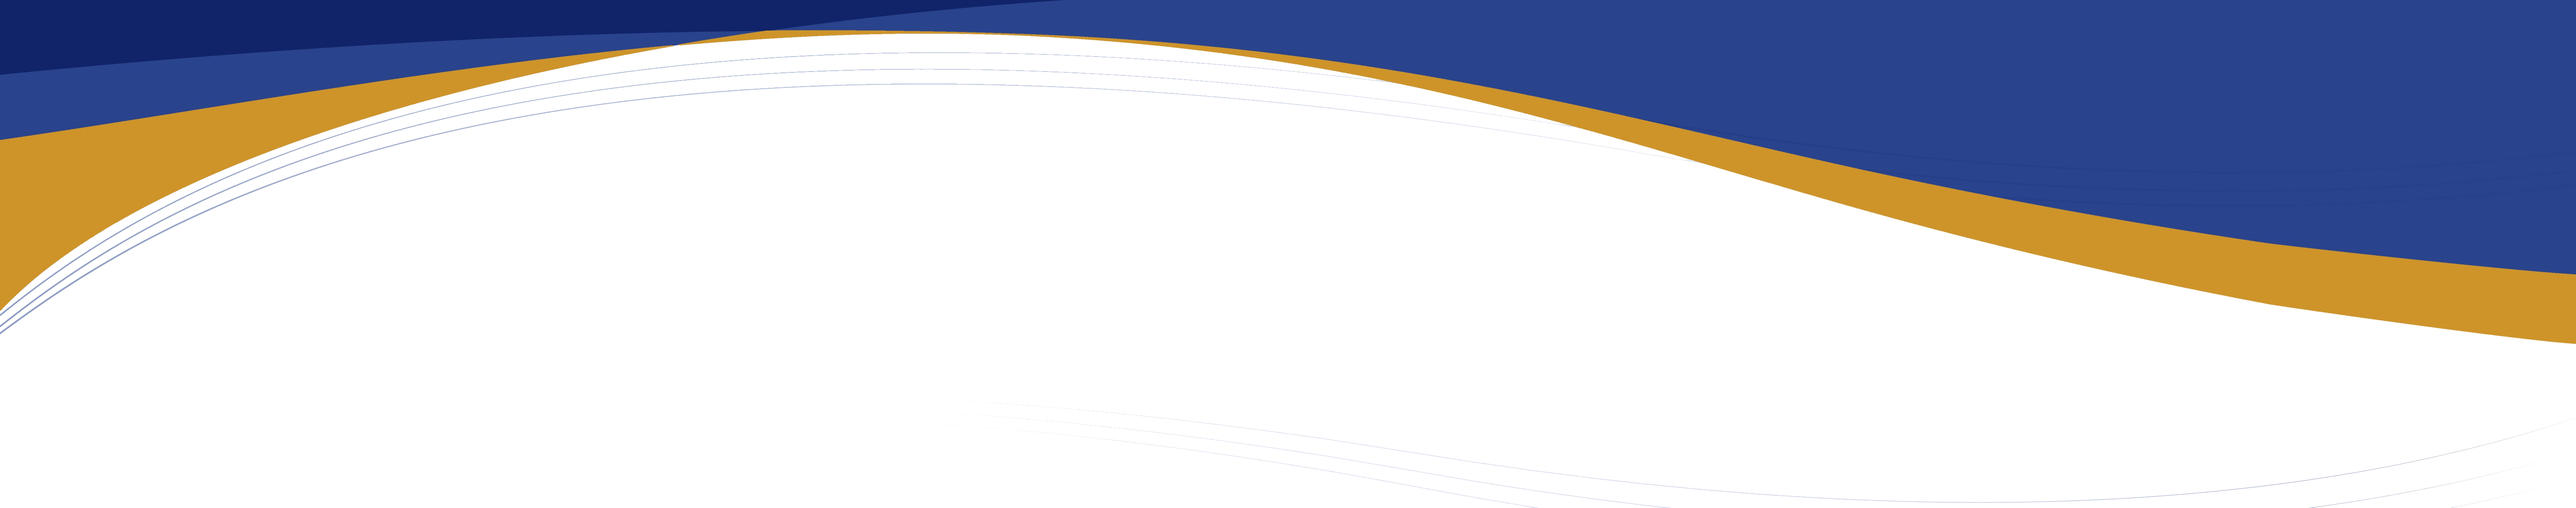
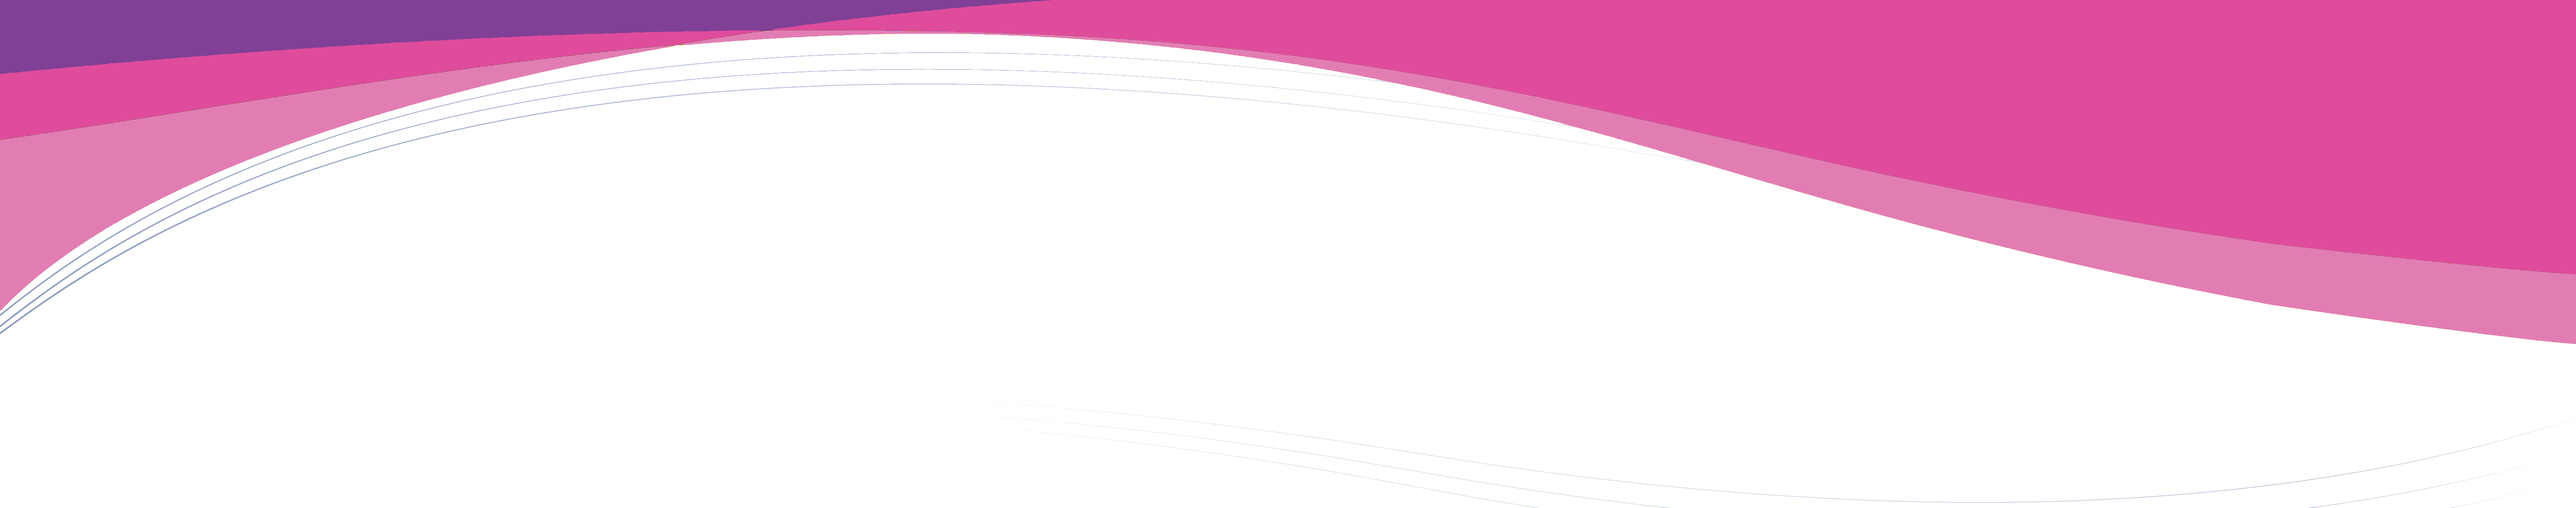
atualizacao outubro rosa

diff --git a/tailwind.config.js b/tailwind.config.js
@@ -23,33 +23,57 @@ module.exports = {
 
     daisyui: {
         styled: true,
-        themes: [ 
+        themes: [
             {
                 ultrimagem: {
-        
-                  //"primary": "#0a33a3",
 
-                  "primary": "#ff8597",
-        
-                  "secondary": "#cdccff",
-        
-                  //"accent": "#2849a3",
-                    
-                  "accent": "#f757d6",
+                    "primary": "#0a33a3",
 
-                  "neutral": "#252432",
-        
-                  "base-100": "#f2f2f2",
-        
-                  "info": "#1e4cd2",
-        
-                  "success": "#81dcb8",
-        
-                  "warning": "#f9b85d",
-        
-                  "error": "#c10015",
+                    //"primary": "#ff8597",
+
+                    "secondary": "#cdccff",
+
+                    "accent": "#2849a3",
+
+                    //"accent": "#f757d6",
+
+                    "neutral": "#252432",
+
+                    "base-100": "#f2f2f2",
+
+                    "info": "#1e4cd2",
+
+                    "success": "#81dcb8",
+
+                    "warning": "#f9b85d",
+
+                    "error": "#c10015",
                 },
-              }],
+                outubro_rosa: {
+
+                    //"primary": "#0a33a3",
+
+                    "primary": "#ff8597",
+
+                    "secondary": "#cdccff",
+
+                    //"accent": "#2849a3",
+
+                    "accent": "#f757d6",
+
+                    "neutral": "#252432",
+
+                    "base-100": "#fdf2f8",
+
+                    "info": "#1e4cd2",
+
+                    "success": "#81dcb8",
+
+                    "warning": "#f9b85d",
+
+                    "error": "#c10015",
+                },
+            }],
         base: true,
         utils: true,
         logs: true,

diff --git a/resources/views/inicio.blade.php b/resources/views/inicio.blade.php
@@ -1,13 +1,13 @@
 <x-rating-layout>
     <div class="min-h-screen hero" style="background-image: url(/image/logofundo.png);">
-        <div class="bg-white hero-overlay bg-opacity-95"></div>
+        <div class="bg-base-100 hero-overlay bg-opacity-95"></div>
         <div class="text-center hero-content text-neutral-content">
             <div class="max-w-xl">
 
                 <div class="grid max-w-xl grid-cols-1 sm:grid-cols-1 justify-items-center">
-                    <h1 class="py-5 text-5xl font-bold text-blue-700">Sua opinião é muito importante para nós!</h1>
+                    <h1 class="py-5 text-5xl font-bold text-primary">Sua opinião é muito importante para nós!</h1>
                     <a href="{{ url('welcome') }}" type="button"
-                        class="h-16 p-2 text-xl font-bold text-white bg-blue-800 border-2 border-none rounded-md hover:bg-blue-900 btn w-96">Iniciar
+                        class="h-16 p-2 text-xl font-bold text-white border-2 border-none rounded-md bg-primary hover:bg-blue-900 btn w-96">Iniciar
                         Pesquisa</a>
 
                 </div>

diff --git a/resources/views/livewire/forms/form-comentario.blade.php b/resources/views/livewire/forms/form-comentario.blade.php
@@ -11,7 +11,7 @@
                         placeholder="Comentários / Sugestões - (Opcional)"
                         class="justify-center w-full mb-10 text-xl textarea textarea-primary" autofocus></textarea>
                     <button type="submit" id="btn-end" href=""
-                        class="my-10 text-white bg-blue-800 border-none hover:bg-blue-900 btn btn-wide">Finalizar</button>
+                        class="my-10 text-white border-none bg-primary hover:bg-accent btn btn-wide">Finalizar</button>
                 </div>
             </form>
         </div>

diff --git a/resources/views/layouts/rate.blade.php b/resources/views/layouts/rate.blade.php
@@ -1,5 +1,5 @@
 <!DOCTYPE html>
-<html lang="{{ str_replace('_', '-', app()->getLocale()) }}">
+<html lang="{{ str_replace('_', '-', app()->getLocale()) }}" data-theme="outubro_rosa">
 
 <head>
     <meta charset="utf-8">
@@ -20,7 +20,7 @@
 
 <body class="sm:overflow-hidden">
 
-    <div class="font-sans antialiased text-gray-900 bg-pink-100">
+    <div class="font-sans antialiased text-gray-900 bg-base-100">
 
         @if($errors->any())
         @foreach($errors->all() as $error)
